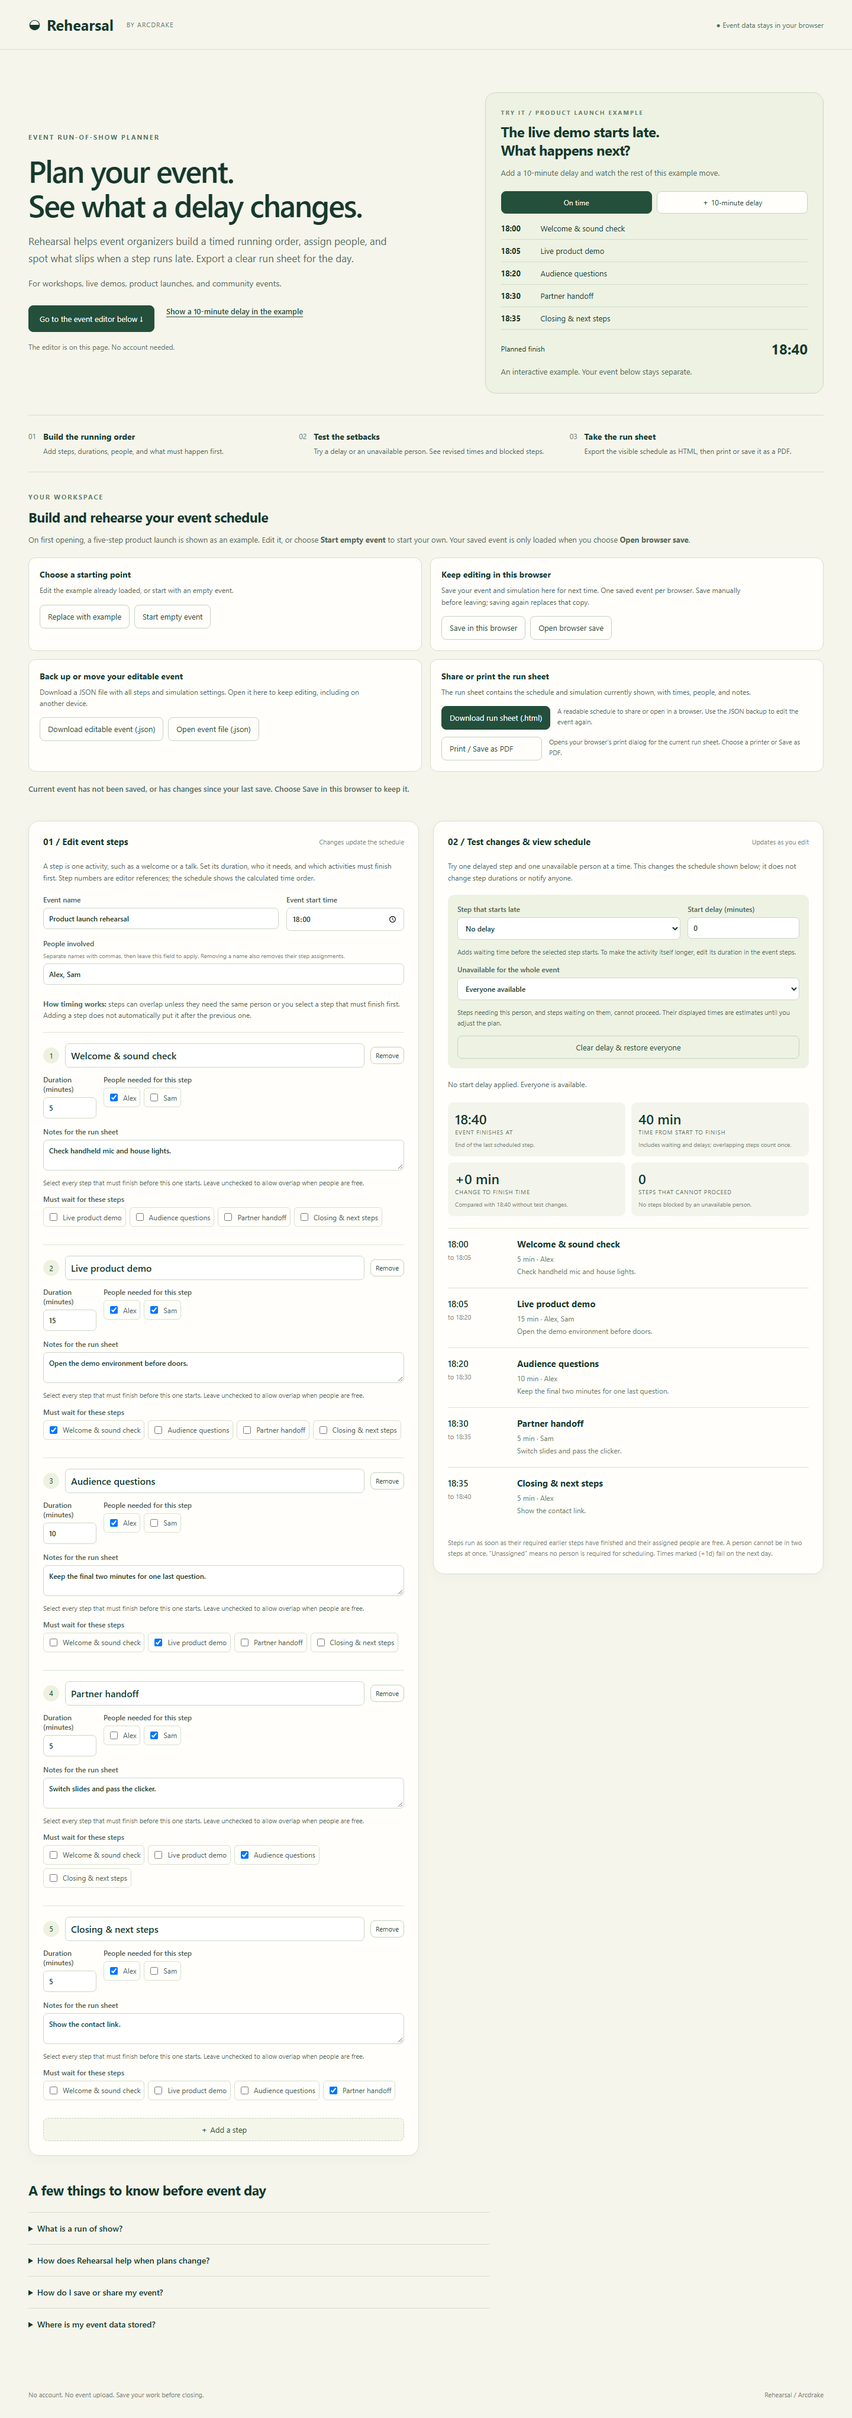
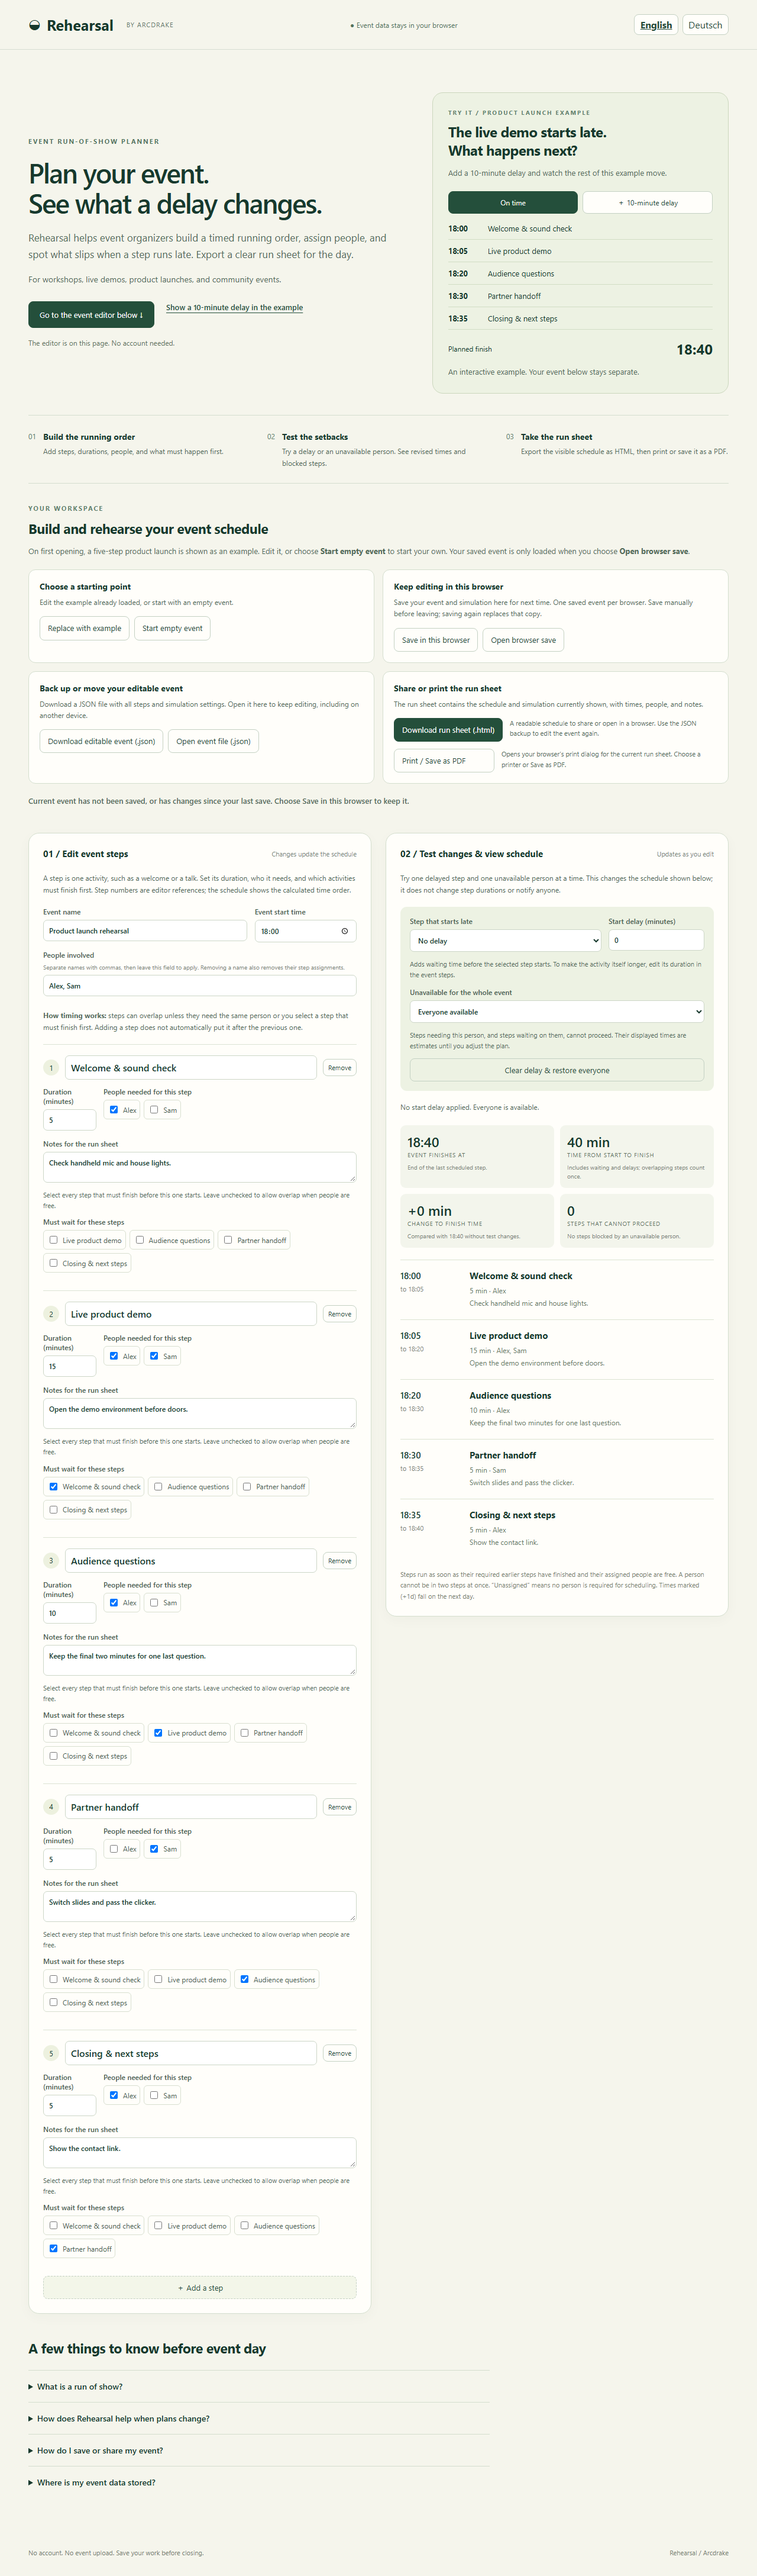
docs: improve public product documentation

diff --git a/README.md b/README.md
@@ -1,66 +1,72 @@
 # Rehearsal
 
-Arcdrake's local-first run-of-show editor for a single event. Build steps with durations, people and dependencies, simulate a setback, and export a standalone HTML run sheet that you can open in a browser to print or save as PDF.
+Plan an event, see what a delay changes, and share a run sheet. Rehearsal helps organizers of workshops, demonstrations and small events build a running order with durations, people and dependencies.
 
-![Local desktop preview](docs/screenshots/desktop.png)
+**[Open Rehearsal](https://tools.arcdrake.com/rehearsal/)** · [Download source](https://github.com/ArcdrakeStudios/rehearsal/archive/refs/heads/main.zip) · [Arcdrake Tools](https://tools.arcdrake.com/) · [Report an issue](https://github.com/ArcdrakeStudios/rehearsal/issues)
 
-[Mobile preview](docs/screenshots/mobile.png). Screenshots use synthetic examples.
+## How to use it
+
+1. Open the example or start an empty event.
+2. Add steps, durations and the people needed. Select any steps that must finish first.
+3. Try a delayed step or an unavailable person to see the revised schedule.
+4. Download an HTML run sheet to share or print, or save an editable JSON backup.
+
+<details>
+<summary>View desktop screenshot</summary>
+
+![Rehearsal with fictional example data](docs/screenshots/desktop.png)
+
+</details>
+
+[Mobile screenshot](docs/screenshots/mobile.png). Screenshots show the standalone application with fictional data.
+
+## Privacy and limitations
+
+Event editing and scheduling happen in your browser. There is no application backend or event upload. Saving is manual: **Save in this browser** keeps one event and its simulation in localStorage on the current origin. Clearing browser data removes that save. Download JSON to keep a portable backup; the HTML run sheet is for sharing and printing, not continued editing.
+
+Independent steps may overlap. Shared people and dependencies constrain scheduling; a person marked unavailable is unavailable for the whole simulation. Physical print output has not been verified. Preview the exported run sheet before relying on a printed copy.
+
+The interface and exported run sheets support English and German. Changing language preserves your event; names and notes you enter are not translated. The language preference is stored locally.
+
+The hosted site receives ordinary page and asset requests. See its [privacy information](https://tools.arcdrake.com/privacy/) for hosting details.
 
 ## Run locally
 
-Install Node.js 24 or newer. No runtime dependencies or package install
-are required. From the repository root:
+Download and extract the source ZIP, or clone this repository. Open a terminal
+in the resulting folder.
+
+Install Node.js 24 or newer, then run from this repository:
 
 ```sh
-node scripts/serve.mjs
+npm start
 ```
 
-Open http://127.0.0.1:43147. Serve modules over HTTP(S), not `file://`.
+Open http://127.0.0.1:43147/. Stop the preview with Ctrl+C. No package installation is needed to run the application. Serve it over HTTP(S), rather than opening `index.html` directly. The files in `dist/` are the application source; there is no compilation step.
 
-```sh
-node --test tests/*.test.mjs
-node scripts/package.mjs
-```
+## Development
 
-The package command assembles only static files and licence/notices in
-`artifacts/release/`, with a SHA-256 manifest; it does not deploy. No compilation or
-network download occurs. For browser checks, follow the locked development setup below and use `npm run test:ci`, which manages its preview server.
-
-## Limits and data
-
-One event and simulation can be saved locally per browser; use JSON download/import
-for portable backups. Saving uses localStorage on the current origin; clearing browser
-data removes it. Dependencies and shared people determine scheduling; unavailable
-people apply to the whole simulation, not a time range. Independent steps may overlap.
-Physical print output remains unverified.
-There is no application backend or event upload.
-
-Browser tests cover Chromium desktop and 390/320px layouts. Physical devices,
-screen readers, Safari and Firefox have not been tested.
-
-## Licence and feedback
-
-[MIT](LICENSE), copyright 2026 Michael Eigner-Dietl. See
-[third-party and asset notices](THIRD_PARTY_NOTICES.md). An
-[Arcdrake](https://arcdrake.com/) product. Use synthetic examples when reporting
-issues. Do not attach private data or unredacted personal images to public issues.
-[Report a bug](https://github.com/ArcdrakeStudios/rehearsal/issues).
-
-## Source, support and development
-
-[Source](https://github.com/ArcdrakeStudios/rehearsal) · [Issues](https://github.com/ArcdrakeStudios/rehearsal/issues) · [Contributing](CONTRIBUTING.md) · [Security](SECURITY.md)
-
-Part of Arcdrake's tools collection. The planned shared home is `tools.arcdrake.com`;
-production hosting is not live as part of this source release. Local use is available
-above. Development checks use Node.js 24 and locked Playwright tooling:
+Install the locked development tools and run the checks:
 
 ```sh
 npm ci
 npx playwright install chromium
 npm test
 npm run test:ci
+npm run test:localization
 npm run package:release
 ```
 
-The CI wrapper starts and stops its own preview server. Runtime operation needs no
-package installation. [Release procedure](docs/RELEASING.md).
+Browser checks manage their own local servers. Leave the preview port free before running them. The package command writes static files and a SHA-256 manifest to `artifacts/release/`; it does not publish or deploy.
+
+Automated browser coverage uses Chromium, including narrow layouts. Safari, Firefox, physical devices and screen readers have not been verified for this app. Report compatibility problems with your browser version and a fictional example.
+
+See [contributing](CONTRIBUTING.md), [language support](docs/LOCALIZATION.md) and [packaging and hosting](docs/RELEASING.md).
+
+## License and support
+
+An [Arcdrake](https://arcdrake.com/) product. Free to use, modify and redistribute under the [MIT license](LICENSE). See [third-party notices](THIRD_PARTY_NOTICES.md) for attribution.
+
+Use the [issue tracker](https://github.com/ArcdrakeStudios/rehearsal/issues) for bugs and suggestions. Do not include private event details. Report security vulnerabilities through the [private reporting channel](SECURITY.md).
+
+Feature requests are welcome in the issue tracker. To contribute an improvement,
+see [the contribution guide](CONTRIBUTING.md).

diff --git a/docs/RELEASING.md b/docs/RELEASING.md
@@ -1,22 +1,27 @@
-# Release procedure
+# Packaging and hosting
 
-The canonical source is https://github.com/ArcdrakeStudios/rehearsal.
-The planned shared product home is `tools.arcdrake.com`; its production launch is
-separate from source publication. This repository does not automatically deploy.
+[Rehearsal](https://tools.arcdrake.com/rehearsal/) is part of [Arcdrake Tools](https://tools.arcdrake.com/). This repository contains its standalone source. Its workflows check changes and prepare downloadable artifacts; they do not deploy the hosted service.
 
-1. Merge through the protected pull-request workflow with `verify` passing and
-   review findings resolved. Record independent review for an owner-authored PR.
-2. Dispatch **Prepare release artifact** on `main`. The `release` environment
-   requires owner approval and restricts runs to main. It repeats tests and packages
-   the checked-out SHA. The artifact is named with that SHA and retained for 30 days.
-3. Inspect the package manifest/hashes. Download and retain the artifact and manifest
-   in the deployment release archive before GitHub retention expires.
-4. Website deployment belongs to the separate infrastructure workflow. Pin this
-   public commit and artifact hash there; verify routing, security headers and user
-   journeys on the production origin. No credentials or deployment hooks live here.
-5. Keep the previous verified artifact and manifest. Roll back through the same
-   infrastructure workflow to those exact bytes, then check the live product.
+## Build a static package
 
-Do not deploy from a contributor branch, arbitrary tag or local working directory.
-Static host logs and origin-dependent browser behavior require separate deployment
-verification. The initial source publication is not evidence of a live public site.
+Follow the development checks in the [README](../README.md), then run:
+
+```sh
+npm run package:release
+```
+
+The command creates `artifacts/release/` with a `manifest.json` containing per-file SHA-256 hashes.
+
+The application files are `index.html`, `style.css`, `app.js`, `schedule.js` and `language.js`. The package also includes `LICENSE` and `THIRD_PARTY_NOTICES.md`; retain these when redistributing it. Packaging does not download dependencies, upload files or configure hosting.
+
+The **Prepare release artifact** GitHub Actions workflow runs on `main` when dispatched by a maintainer. It repeats the checks and uploads an artifact named with the source commit. GitHub keeps these workflow artifacts for 30 days; they are not permanent release downloads.
+
+## Host your own copy
+
+Serve the package's application files over HTTPS from a static host, preserving relative asset paths. A directory mount must serve its trailing-slash index. Serve the packaged files, not the repository root or development tools.
+
+The standalone app does not include a Content Security Policy. Configure and test one at your host, together with other appropriate security headers, including `X-Content-Type-Options: nosniff` and `Referrer-Policy: no-referrer`. Verify asset loading, scheduling, saving and HTML export on your chosen origin.
+
+Browser saves belong to the current origin. Moving to another host does not transfer an existing save; export JSON from the old location and import it at the new one. Hosting receives ordinary page and asset requests, so describe your host's data processing accurately.
+
+Retain the previous package and manifest if you need to restore an earlier version. Verify the files against the manifest before serving them.

diff --git a/docs/LOCALIZATION.md b/docs/LOCALIZATION.md
@@ -1,11 +1,19 @@
 # English and German interface
 
-The bundled `dist/language.js` contains local translations for static text, dynamic findings, help, errors and accessibility labels. It makes no network requests and adds no runtime dependencies. Rehearsal also localizes exported HTML run sheets. Raw URLs, DNS evidence, protocol values and user-authored event content remain data, protected by explicit raw display boundaries.
+The bundled `dist/language.js` supplies translations for interface text, help, errors and accessibility labels without network requests or runtime dependencies. Exported HTML run sheets also use the selected language. User-authored names and notes remain unchanged.
 
-Language priority is valid `?lang=de|en`, then valid `arcdrake-tools-language` preference, then German browser language, otherwise English. Unavailable browser storage does not prevent an explicit URL choice. Only the preference is persisted by the language module.
+Language selection follows this order:
 
-The visible English/Deutsch buttons update the URL with `history.replaceState` without reloading. Each app dispatches and listens for `arcdrake-language-change` on `window`, with `detail.language` equal to `en` or `de`. This lets the collection shell change language while preserving entered values, selections, simulations and existing results.
+1. A valid `?lang=de` or `?lang=en` URL parameter.
+2. The saved `arcdrake-tools-language` preference.
+3. German when the browser's language is German; English otherwise.
 
-The translator retains English source text per node and translates exact strings or bounded message templates. It never replaces arbitrary words inside user text. When adding UI copy, add both its English source and German translation, keep inserted user values in raw boundaries, and extend the localization journey as needed.
+An explicit URL choice still works when browser storage is unavailable. Only the language preference is persisted by this module.
 
-Run `npm test`, `npm run test:ci`, and `npm run test:localization`. Localization browser tests cover dynamic German results/errors, EN/DE state retention, raw-data retention, explicit URL and stored preference priority, browser-language fallback, denied storage and narrow screens. Every owned test browser is closed in `finally`.
+English/Deutsch controls change the language without reloading or clearing entered data. The app dispatches and listens for `arcdrake-language-change` on `window`, with `detail.language` set to `en` or `de`. A script running in the same page, such as site navigation, can use this event to coordinate language changes. The event does not cross iframe boundaries.
+
+## Adding translations
+
+The translator retains English source text per node and translates exact strings or bounded message templates. It does not replace arbitrary words inside user text. Add both the English source and German translation for new interface copy, keep user-supplied values outside translated text, and extend the localization tests.
+
+Run `npm run test:localization` after installing the development tools described in the [README](../README.md). The checks cover language selection, translated results, preservation of entered data, unavailable storage and narrow layouts.

diff --git a/CONTRIBUTING.md b/CONTRIBUTING.md
@@ -1,35 +1,33 @@
 # Contributing
 
-Please open an issue before a substantial change. Small, focused fixes are welcome.
-Fork the repository, create a branch and submit a pull request against `main`.
-Use synthetic inputs in reports, screenshots and tests; do not post private data.
+Small, focused fixes are welcome. Open an issue before a substantial change so we can discuss the intended behavior. Fork the repository, create a branch and submit a pull request against `main`.
 
-Use Node.js 24. Install development tools with `npm ci`, then run:
+## Development checks
+
+Follow the prerequisites in the [README](README.md), then run:
 
 ```sh
+npm ci
 npx playwright install chromium
 npm test
 npm run test:ci
+npm run test:localization
 npm run package:release
 ```
 
-On Linux, `npx playwright install --with-deps chromium` installs required browser
-libraries. CI uses disposable GitHub-hosted runners. Maintainer approval is needed
-before an outside contributor's workflow runs; approval is not a code review.
+On Linux, `npx playwright install --with-deps chromium` also installs required browser libraries. Browser tests start and stop their own preview servers; leave the app's preview port free.
 
-Keep the app dependency-light and preserve its documented privacy and scope.
-Include a regression check for behavioral fixes and explain verification limits.
-Review must cover code, public copy, dependency rights and screenshots. Contributions
-are provided under the repository's MIT license. Be respectful and constructive.
+## Preparing a pull request
 
-## Maintainer workflow
+Explain the user-visible problem, the change and how you checked it. Add a regression test for behavioral fixes when practical, and keep documentation and both interface languages consistent with the application.
 
-Main requires a pull request, passing `verify` CI, resolved conversations and linear
-history. Squash merge approved changes. Force pushes and branch deletion are blocked.
-CODEOWNERS assigns review to @SirDragonheart. A separate review rule requires one
-approval, with a PR-only exception for the owner account: founder-authored PRs must
-record independent Claude review and resolved findings before that exception is used.
-The exception does not bypass CI or permit direct pushes. GitHub enforces the checks;
-the independent-review evidence requirement is a maintainer procedure.
+Preserve the documented privacy boundaries and keep runtime dependencies minimal. Use fictional inputs in issues, tests and screenshots. Never post private data or credentials.
 
-See [release procedure](docs/RELEASING.md) and [security reporting](SECURITY.md).
+Pull requests must pass the required CI check before merging. Contributor pull requests are reviewed by a maintainer. A maintainer may need to approve a contributor's workflow run before checks begin.
+
+Contributions are provided under the repository's MIT license. Be respectful and constructive.
+
+See [packaging and hosting](docs/RELEASING.md), [language support](docs/LOCALIZATION.md) and [security reporting](SECURITY.md).
+
+Accepted changes can be included in future updates to the hosted app. Deployment
+is managed separately from pull request merging.

diff --git a/.github/pull_request_template.md b/.github/pull_request_template.md
@@ -1,11 +1,14 @@
 ## Problem and change
 
+Describe the user problem and how this change addresses it.
+
 ## Verification
 
-## Privacy, security and dependency impact
+Describe the checks you ran and any remaining limitations.
 
-- [ ] Tests pass and limitations are stated.
+## Checklist
+
+- [ ] Relevant checks pass.
 - [ ] Examples and screenshots contain no private information.
 - [ ] Documentation matches the behavior.
-
-## Independent review evidence (required for owner review exception)
+- [ ] Any privacy, security or dependency changes are explained.

diff --git a/.github/ISSUE_TEMPLATE/bug_report.md b/.github/ISSUE_TEMPLATE/bug_report.md
@@ -12,8 +12,10 @@ assignees: ""
 
 ## Steps to reproduce
 
+## Hosted app or self-hosted copy?
+
 ## Browser and version
 
 ## Screenshots (remove private information)
 
-For security vulnerabilities, use SECURITY.md instead.
+For security vulnerabilities, use [private security reporting](https://github.com/ArcdrakeStudios/rehearsal/security/advisories/new) instead.
